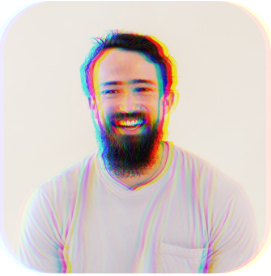
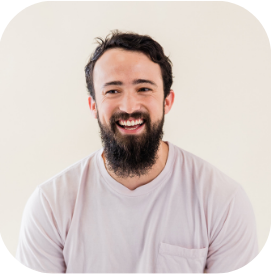
Add files via upload

diff --git a/Menu.html b/Menu.html
@@ -8,16 +8,20 @@
 </head>
 <body>
 <header class="main1">
-    <h1 class="Name-me">Sebastian</h1>
+    <h1 class="Name-me">Sebastian</h1> 
+    <p class="desc"><strong>Welcome into this public portfolio, you can check all about me.</strong></p>
     <nav>
+        <hr>
         <a href="Menu.html" title="Menu" class="Link-External">Menu</a>
         <a href="Index.html" title="Index" class="Link-External">Index</a>
         <a href="Contact.html" title="Contact" class="Link-External">Contact</a>
+        
+        &nbsp; &nbsp; &nbsp;  <button class="btn">Login</button>
     </nav>
 <hr>
 </header>
 <article> 
-<img src="Outils/me.png" alt="Error" width="190" height="190" class="Animated-me">
+<img src="Outils/me.png" class="Image" alt="Error" width="190" height="190">
 <section class="Art1">
         <p>Hi, I am Sebastian<br><strong>Event Planner</strong></p>
         <p>I Prepare Beautiful Events and<br>I love what i do</p>
@@ -26,7 +30,7 @@
 <hr>
 <article>
     <h2>About me</h2>
-    <img src="Outils/me2.png" alt="Error" width="190" height="190" ">
+    <img src="Outils/me2.png" class="Image" alt="Error" width="190" height="190" ">
 <section class="Art2">
         <p><strong>Event Planner is more than just Events</strong></p>
         <p>I make memories, not just events. I am experienced in planning,<br> designing, and launching huge celebrations. I've won awards for<br> my work, including Tresswood's Excellence in Event Execution.</p>
@@ -57,10 +61,7 @@
 <article>
     <h2>Mes Coordonnées</h2>
     <section class="Art5">
-        <p></p>
-        <p></p>
-        <p></p>
-        <p></p>
+        
 </section>
 </article>
 </body>

diff --git a/index.css b/index.css
@@ -1,41 +1,65 @@
- 
- h2 {
-     color: Grey;
-    font-size: 22px
+h2 {
+    color: Grey;
+    font-size: 30px;
+    padding: 20px;
 }
 
 .Name-me {
-            color: #fcde58;
-            font-size: 40px
-} 
+        color: #fcde58;
+        font-size: 50px;
+        padding:    10px;
+        } 
 
 .Link-External {
 
                 color: rgba(243, 235, 235, 0.856);
-}
+                font-size: 20px;
+            }
 
 .Link-External:hover {
-                        
-                    color: rgba(243, 204, 30, 0.753);
+                     color: rgba(243, 204, 30, 0.753);
+                    padding: 3px;
 }
 
 .main1 {
         background: rgba(2, 0, 0, 0.568);
-        padding: 10px 5px 5px 10px;
+        padding: 20px 20px 5px 20px;
 }
 
 .Art1,.Art2,.Art3,.Art4 {
     background: rgba(128, 128, 128, 0.356);
-    padding: 10px 10px 10px 20px;
+    padding: 10px 5px 10px 20px;
+    padding: 20px;
 }
 
 .Art5 {
-    font-size: 15px;
+    font-size: 40px;
     background: rgba(128, 128, 128, 0.356);
 }
 
+.Image {
+        width:20%;
+        height: auto;
+        padding:30px;
+    }
 
+body {
+    margin-top: 0;
+    margin-right: 0;
+    margin-left: 0;
+}
 
+.desc {
+    font-size: 17px;
+    color: rgb(63, 61, 61);
+}
 
+.btn {
+    background-color: transparent;
+    color: rgba(243, 235, 235, 0.856);
+}
 
-
+.btn:hover {
+            color: rgba(243, 204, 30, 0.753);
+            padding: 3px;
+}
